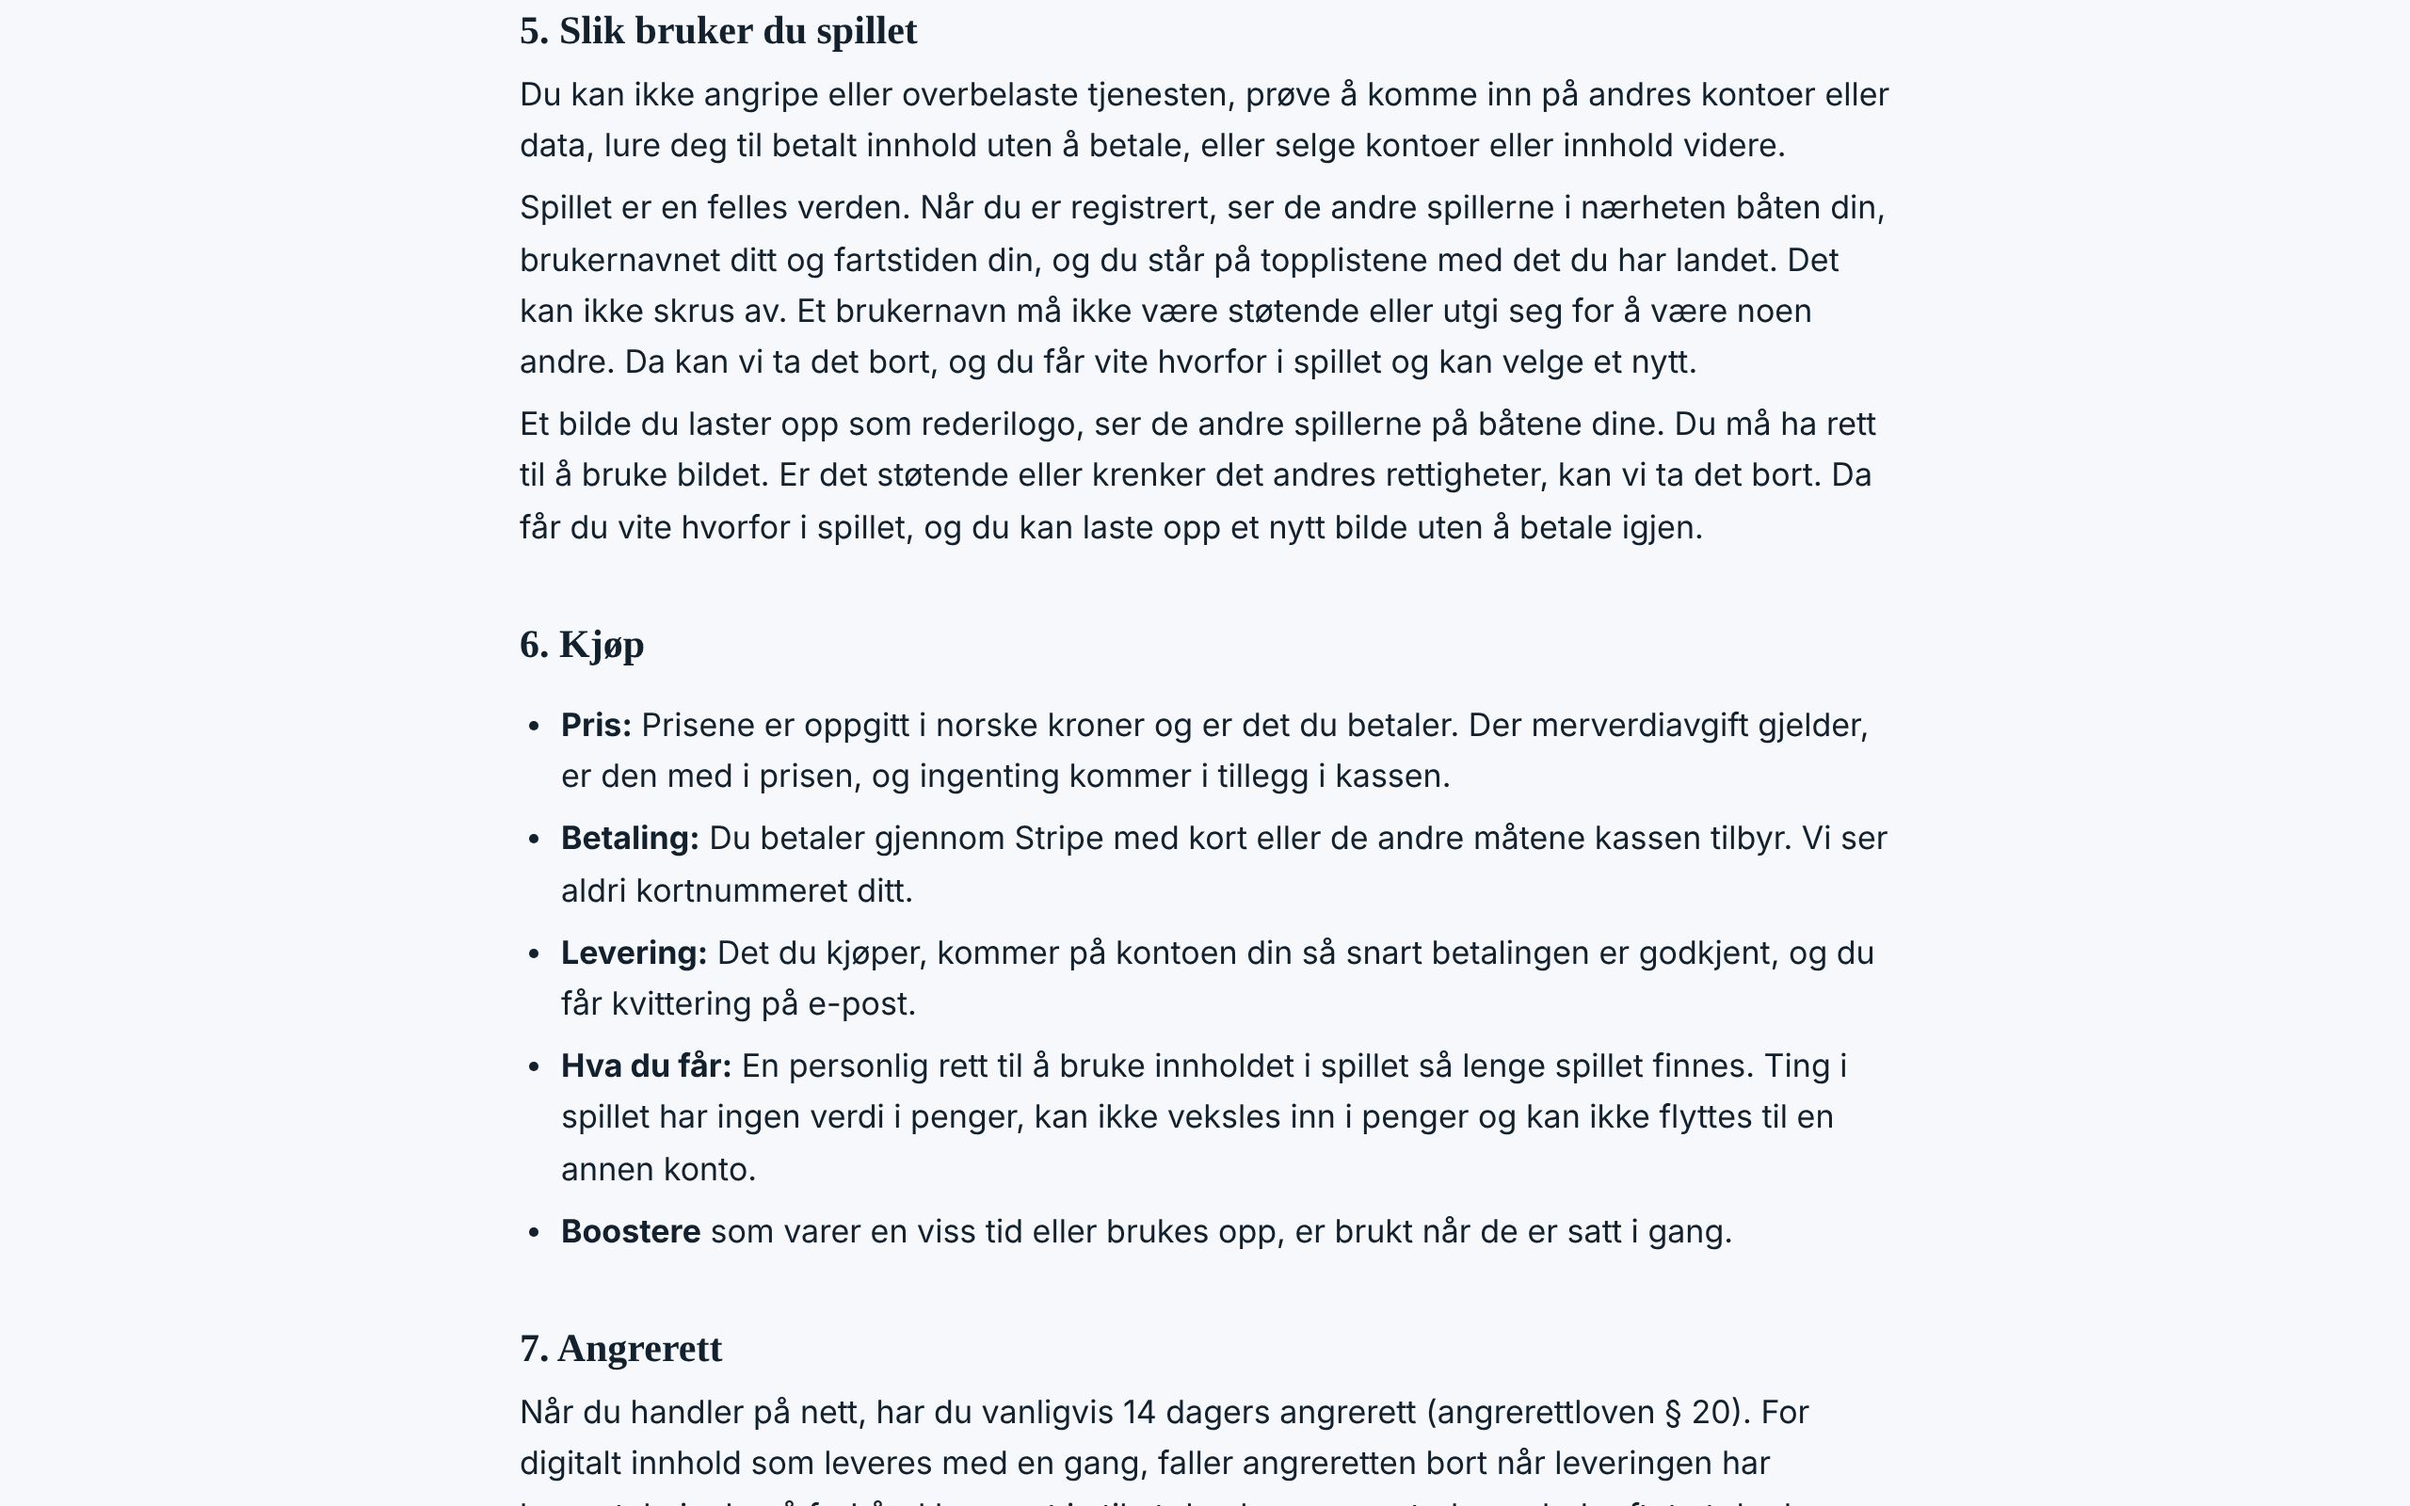
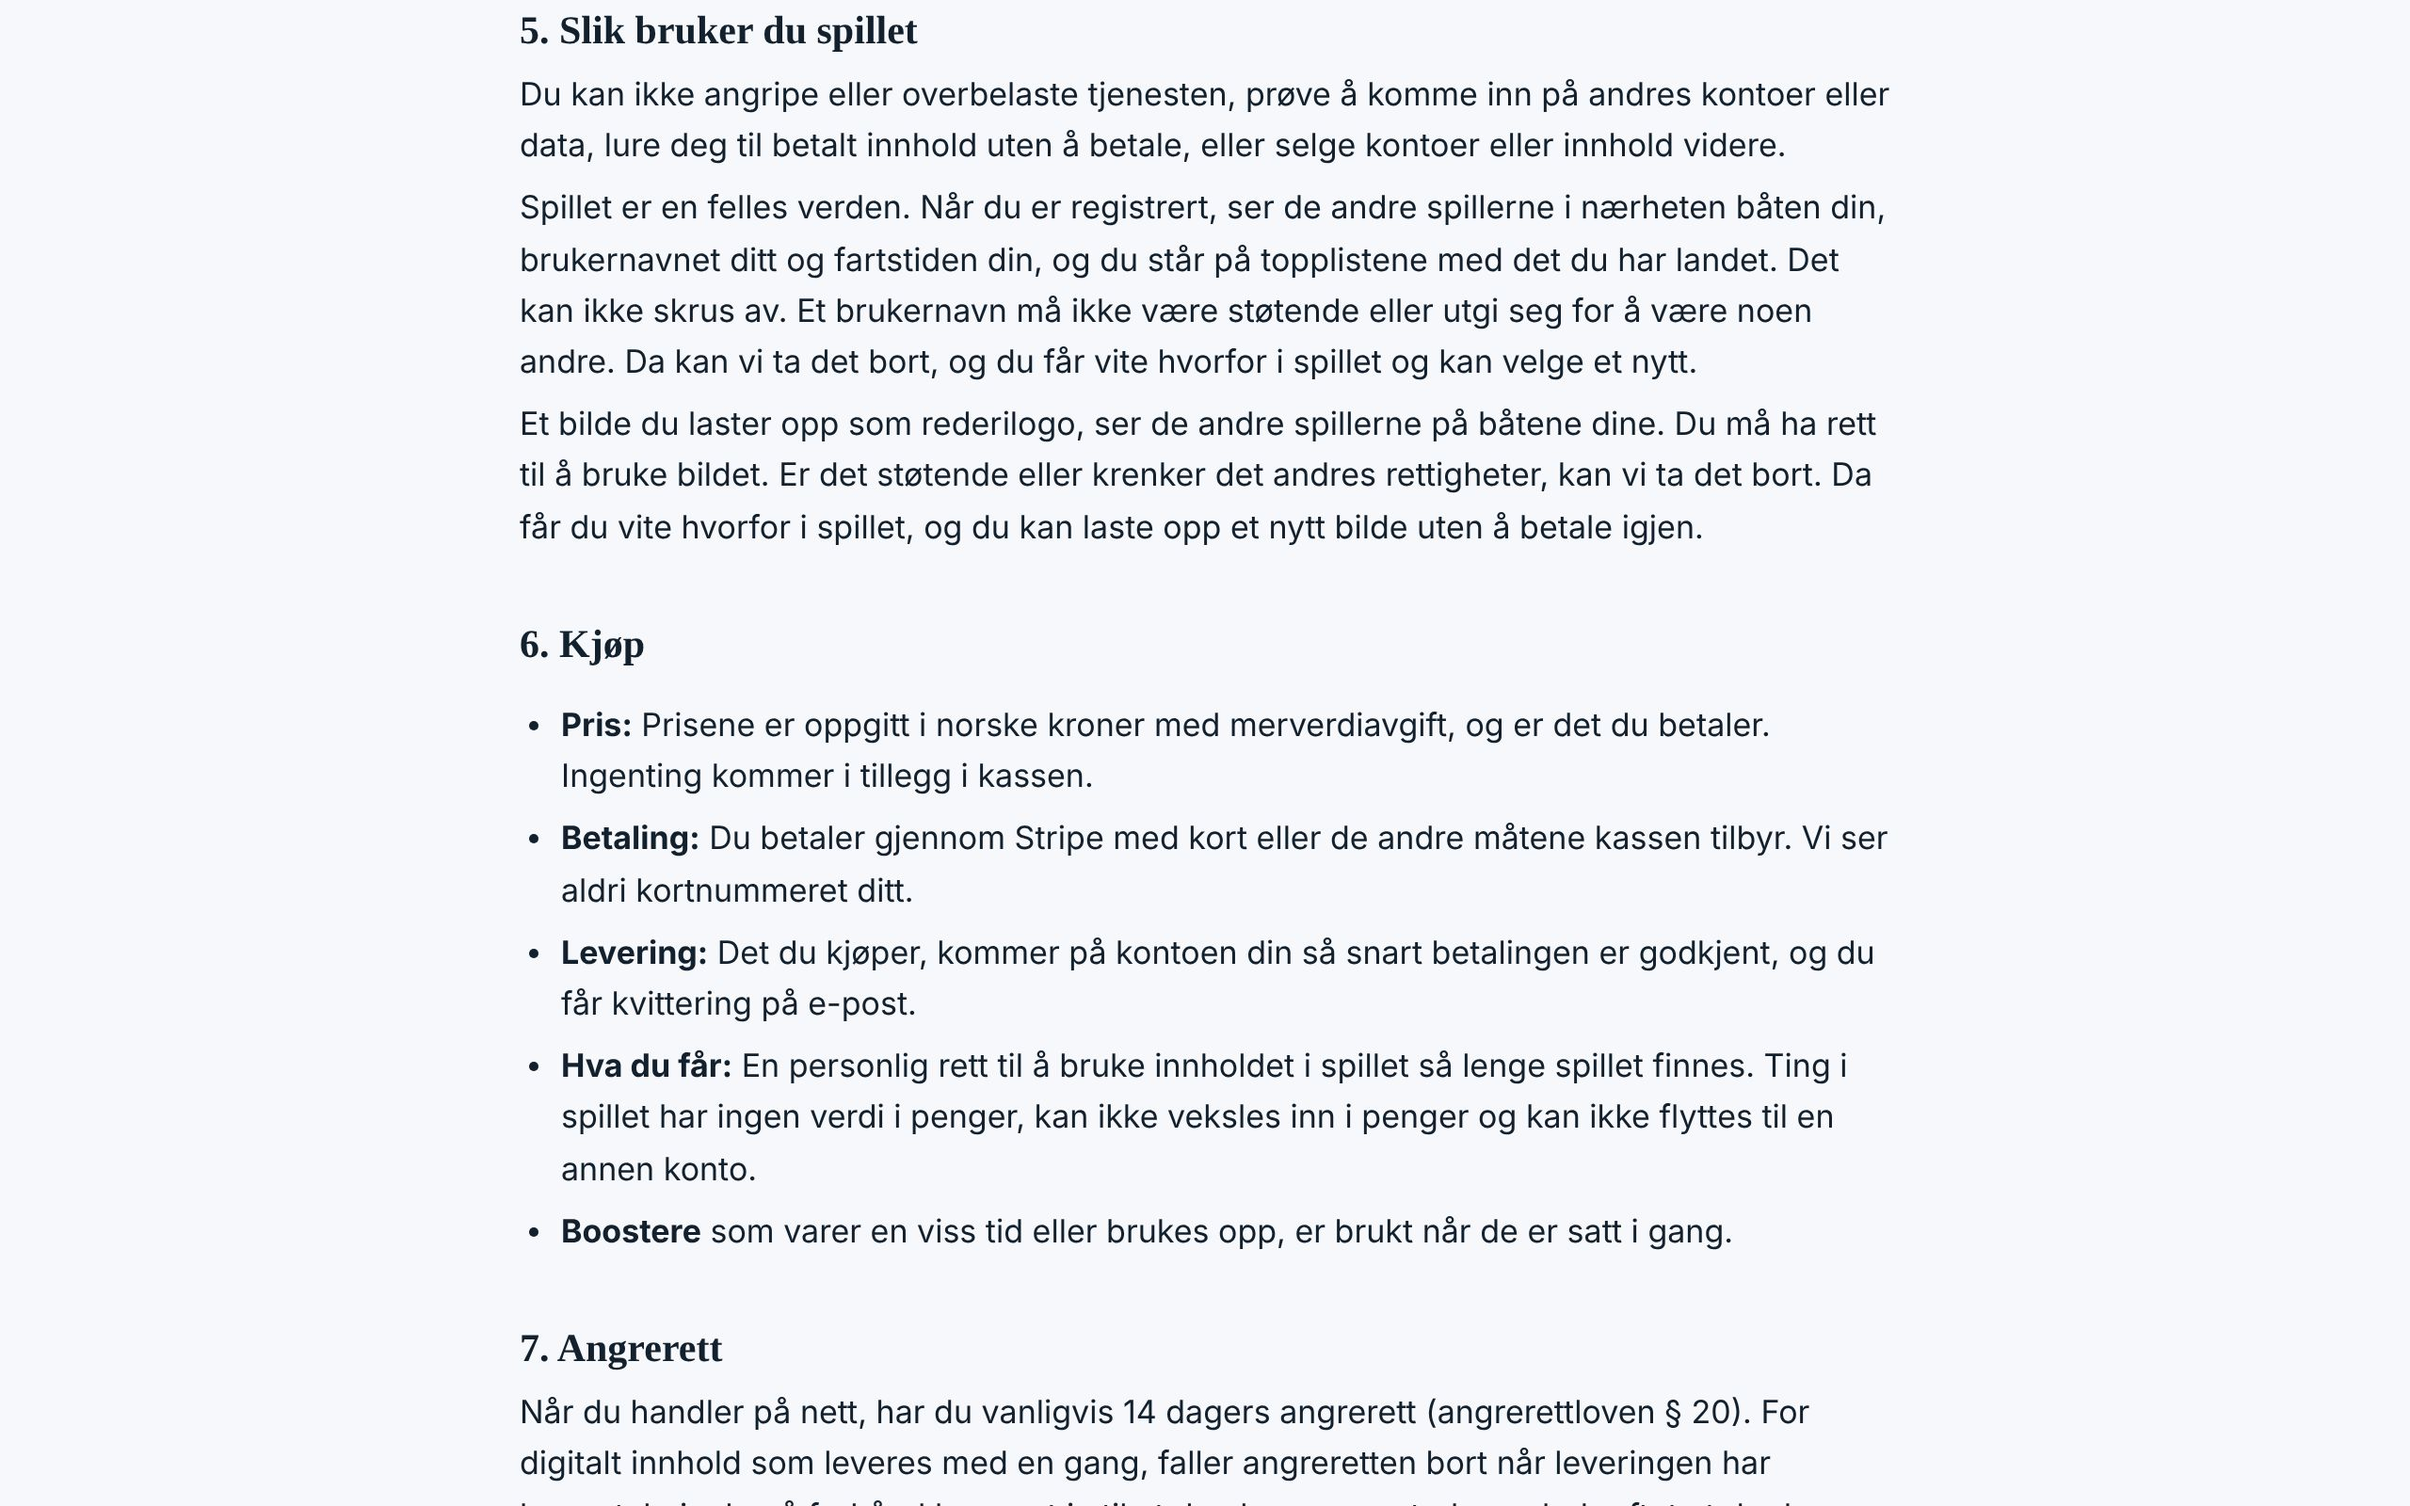
L1f (steg 79): vilkårene sier at prisene er med merverdiavgift
Jonas 11.11.2026: «Ja, bytt setningen.» Foretaket er MVA-registrert, og registreringen for Norge
er lagt inn i Stripe samme dag. Før: «Der merverdiavgift gjelder, er den med i prisen, og
ingenting kommer i tillegg i kassen.» Etter: «Prisene er oppgitt i norske kroner med
merverdiavgift, og er det du betaler. Ingenting kommer i tillegg i kassen.»
Bare tekst; bygget, skjermbildene tatt på nytt i begge formater.

Claude-Session: https://claude.ai/code/session_013BxXiCUWF8y3XjcKcQRMVC

Changed region(s): [[0.2188, 0.4688, 0.7812, 0.5312]]

diff --git a/src/legal/vilkar.html b/src/legal/vilkar.html
@@ -41,7 +41,7 @@ E-post: <a href="mailto:jonas@havbruksdrift.no">jonas@havbruksdrift.no</a></p>
 
 <h2>6. Kjøp</h2>
 <ul>
-<li><strong>Pris:</strong> Prisene er oppgitt i norske kroner og er det du betaler. Der merverdiavgift gjelder, er den med i prisen, og ingenting kommer i tillegg i kassen.</li>
+<li><strong>Pris:</strong> Prisene er oppgitt i norske kroner med merverdiavgift, og er det du betaler. Ingenting kommer i tillegg i kassen.</li>
 <li><strong>Betaling:</strong> Du betaler gjennom Stripe med kort eller de andre måtene kassen tilbyr. Vi ser aldri kortnummeret ditt.</li>
 <li><strong>Levering:</strong> Det du kjøper, kommer på kontoen din så snart betalingen er godkjent, og du får kvittering på e-post.</li>
 <li><strong>Hva du får:</strong> En personlig rett til å bruke innholdet i spillet så lenge spillet finnes. Ting i spillet har ingen verdi i penger, kan ikke veksles inn i penger og kan ikke flyttes til en annen konto.</li>
